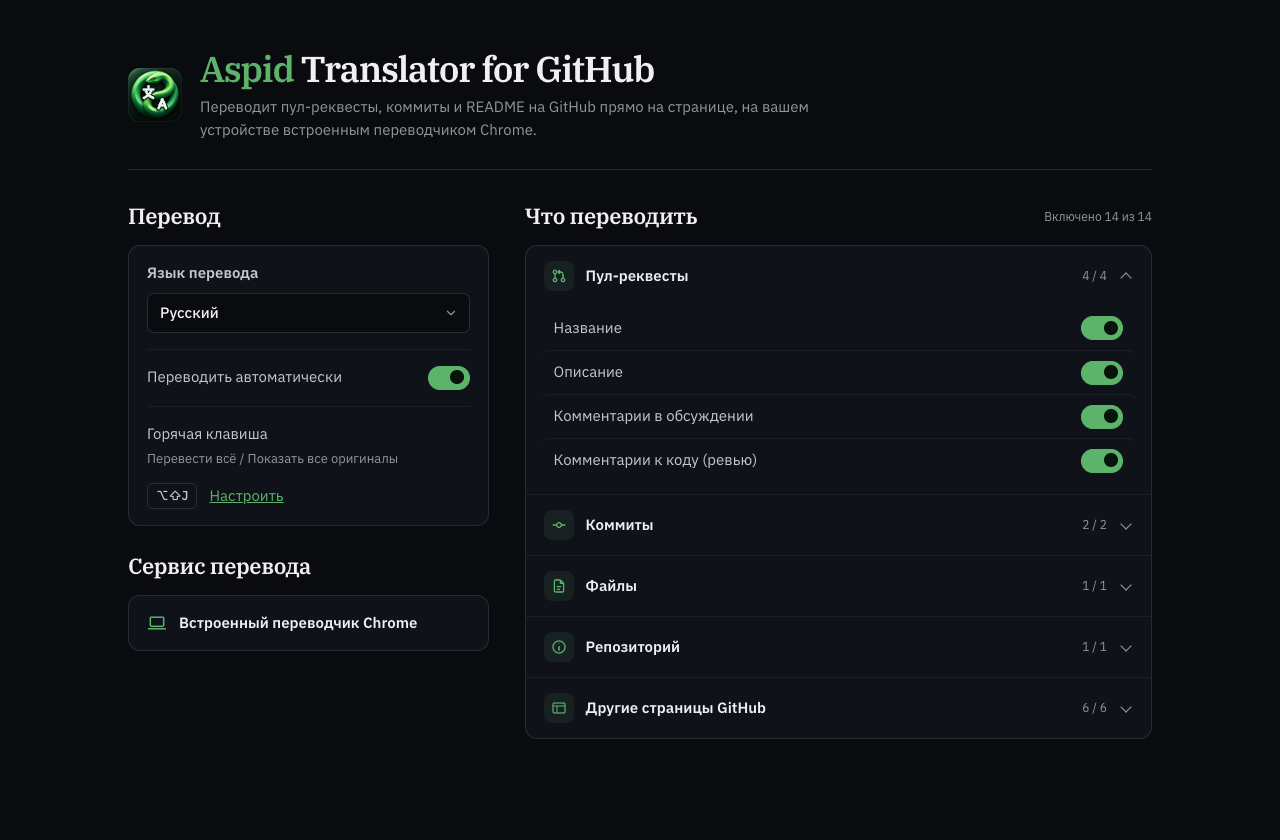
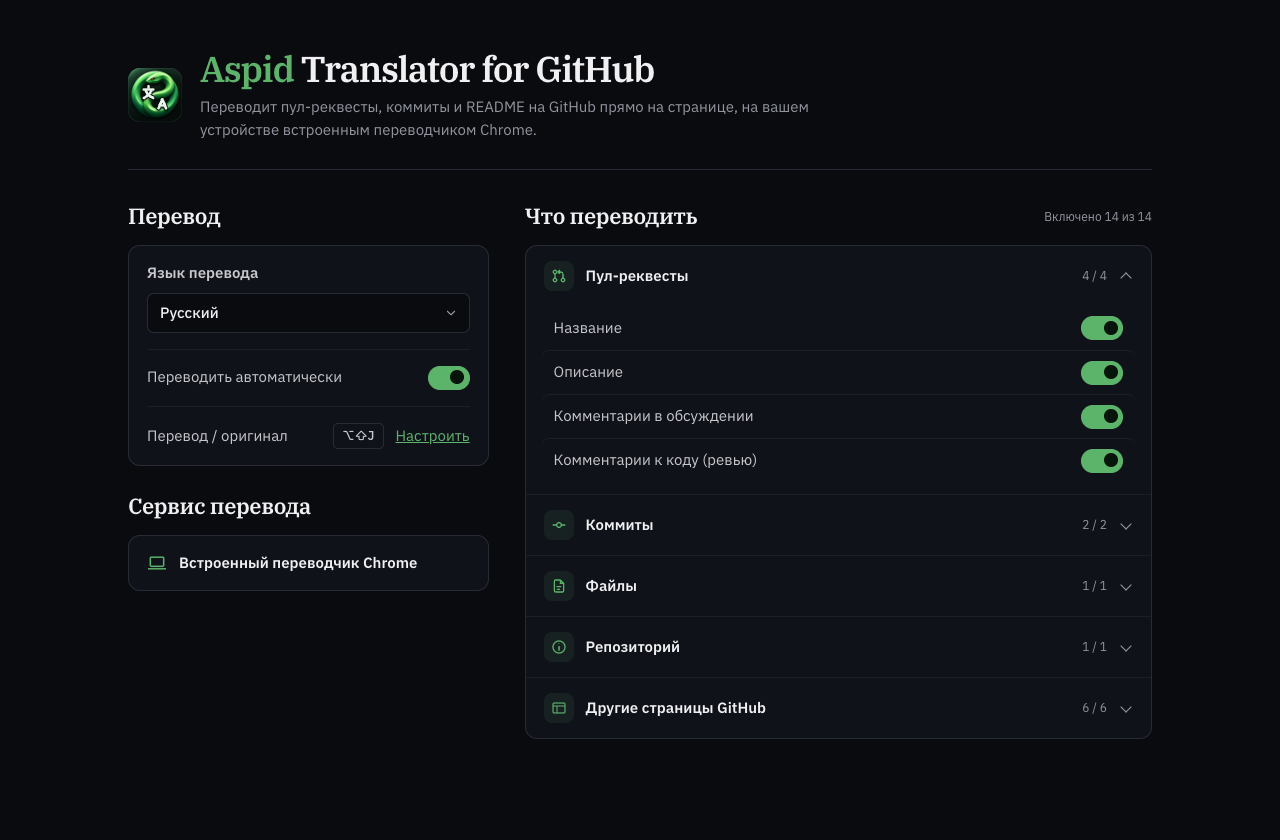
fix(options): condense the translation shortcut row
- Label the shortcut by its action in every supported language.
- Update the settings screenshots with the compact row.

diff --git a/static/options.html b/static/options.html
@@ -159,7 +159,7 @@
           </div>
           <div class="divider"></div>
           <div class="row shortcut">
-            <span class="text"><span data-i18n="shortcutTitle"></span><span class="hint" data-i18n="shortcutToggle"></span></span>
+            <span data-i18n="shortcutLabel"></span>
             <span class="shortcut-actions"><kbd dir="ltr" id="shortcut"></kbd><a id="edit-shortcut" href="chrome://extensions/shortcuts" data-i18n="shortcutEdit"></a></span>
           </div>
         </div>
